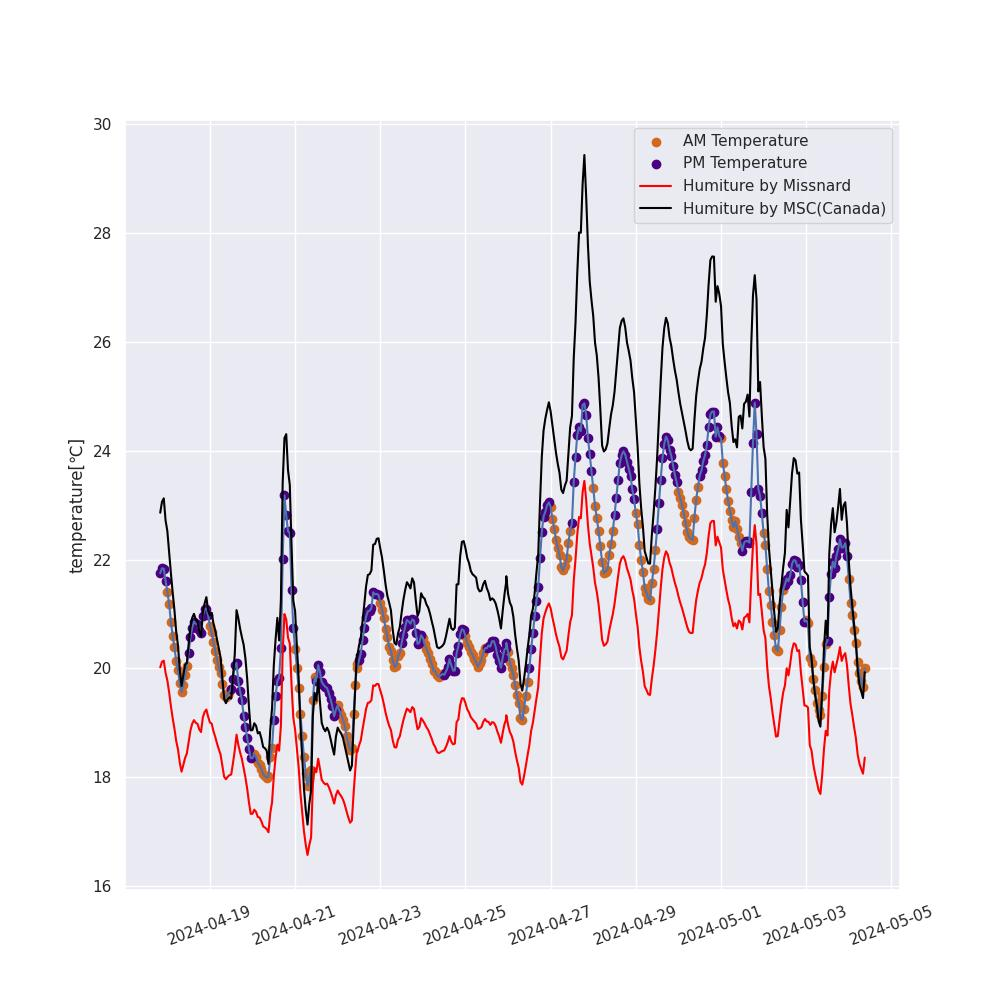
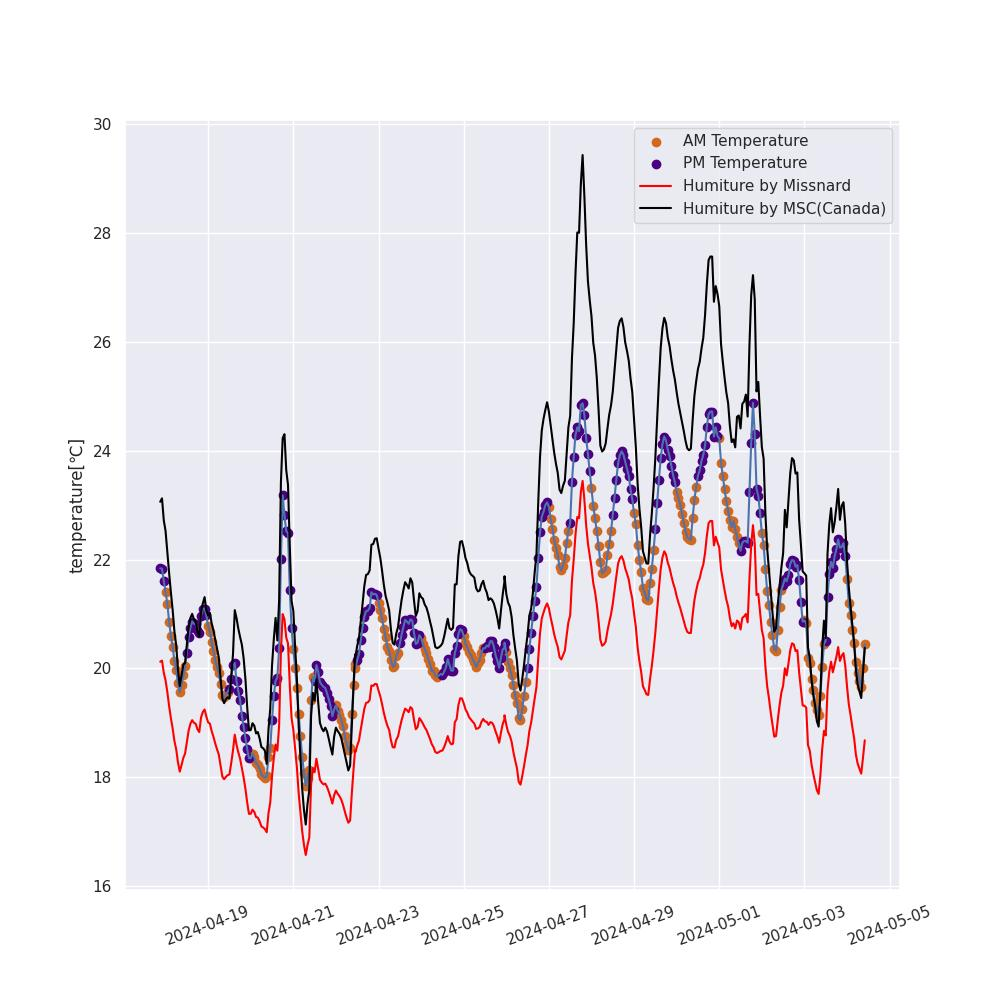
Update: 2024-05-04 10:01:23

diff --git a/index.html b/index.html
@@ -20,10 +20,10 @@
 </head>
 <body>
   <div style="background-color: tomato; width: 100%; height: 40px; font-size: 32px; line-height: 40px; text-align: left;">東北某所</div>
-  <div style="background-color: honeydew; width: 100%; height: 20px; font-size: 16px;">気温：20.0</div>
-  <div style="background-color: ghostwhite; width: 100%; height: 20px; font-size: 16px;">湿度：42.28</div>
-  <div style="background-color: honeydew; width: 100%; height: 20px; font-size: 16px;">気圧：1008.0</div>
-  <div style="background-color: ghostwhite; width: 100%; height: 20px; font-size: 16px;">衛星：8.18</div>
+  <div style="background-color: honeydew; width: 100%; height: 20px; font-size: 16px;">気温：20.44</div>
+  <div style="background-color: ghostwhite; width: 100%; height: 20px; font-size: 16px;">湿度：41.21</div>
+  <div style="background-color: honeydew; width: 100%; height: 20px; font-size: 16px;">気圧：1007.0</div>
+  <div style="background-color: ghostwhite; width: 100%; height: 20px; font-size: 16px;">衛星：5.58</div>
   <div style="background-color: honeydew; width: 100%; height: 20px; font-size: 16px;">{placeholder6}</div>
   <div style="
               background-color: aliceblue;
@@ -46,6 +46,6 @@
       <img src="image4.jpg?version=0504" alt="No.4">
     </div>
   </div>
-  <div style="background-color: tomato; width: 100%; height: 40px; font-size: 16px;">Last updated at 09</div>
+  <div style="background-color: tomato; width: 100%; height: 40px; font-size: 16px;">Last updated at 10</div>
 </body>
 </html>
